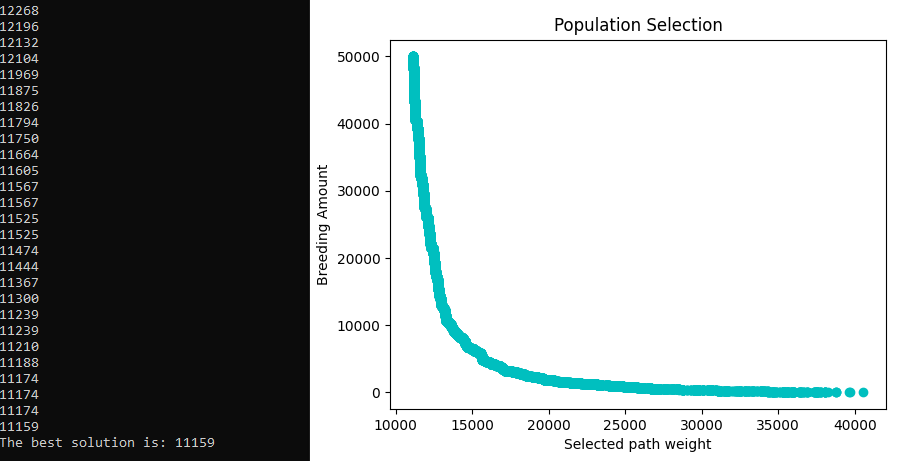
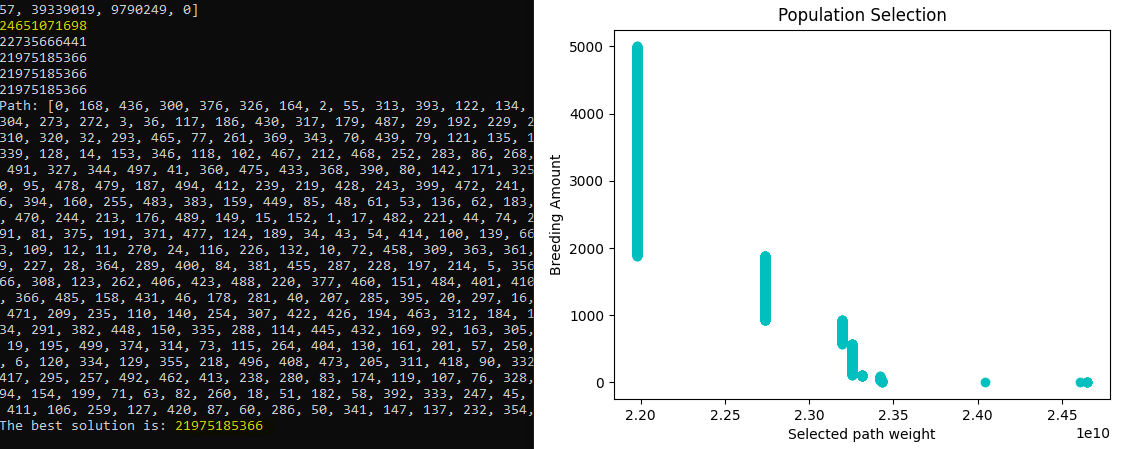
examples are included again

Changed region(s): [[0.0, 0.0, 0.9739, 1.0], [0.6696, 0.5612, 0.7, 0.7171]]

diff --git a/src/Traveling Salesman Problem/TravelingSalesmanProblem.py b/src/Traveling Salesman Problem/TravelingSalesmanProblem.py
@@ -52,7 +52,7 @@ class Selection(TSPGeneticAlgorithm):
 
     def breedingLoop(self, chromosome1, chromosome2):
         iteration = 0
-        while iteration < 20000:
+        while iteration < 5000:
             temp1 = chromosome1.copy()
             temp2 = chromosome2.copy()
 
@@ -72,7 +72,7 @@ class Selection(TSPGeneticAlgorithm):
 
     def crossover(self, chromosome1, chromosome2):
         chromosomeLenght = len(chromosome1)
-        for i in range(math.floor(chromosomeLenght / 2)):
+        for i in range(math.floor(chromosomeLenght / 3)):
             randomIndex = random.randint(1, chromosomeLenght - 1)
             swapGenes(chromosome1, chromosome2, randomIndex)
 
@@ -102,7 +102,6 @@ class Selection(TSPGeneticAlgorithm):
             self.bestChromosome = chromosome2
             self.bestScore = val2
 
-        # print(self.bestChromosome)
         print(f'{self.bestScore}')
 
 
@@ -123,13 +122,13 @@ class Mutation:
     def mutationCycle(self, chromosome):
         tempChromosome = chromosome.copy()
         chromosomeLenght = len(tempChromosome)
+        for i in range(math.floor(chromosomeLenght / 100)):
+            randomIndex1 = random.randint(1, chromosomeLenght - 2)
+            randomIndex2 = random.randint(1, chromosomeLenght - 2)
 
-        randomIndex1 = random.randint(1, chromosomeLenght - 2)
-        randomIndex2 = random.randint(1, chromosomeLenght - 2)
-
-        tempGene = tempChromosome[randomIndex1]
-        tempChromosome[randomIndex1] = tempChromosome[randomIndex2]
-        tempChromosome[randomIndex2] = tempGene
+            tempGene = tempChromosome[randomIndex1]
+            tempChromosome[randomIndex1] = tempChromosome[randomIndex2]
+            tempChromosome[randomIndex2] = tempGene
 
         return tempChromosome
 

diff --git a/src/Traveling Salesman Problem/TSPSampleGenerator.py b/src/Traveling Salesman Problem/TSPSampleGenerator.py
@@ -16,7 +16,7 @@ class TSPSampleContainer:
             self.TSPGraph.append([0] * self.graphSize)
             for j in range(self.graphSize):
                 if i != j:
-                    self.TSPGraph[i][j] = (random.randint(100, 100000))
+                    self.TSPGraph[i][j] = (random.randint(10, 100000000))
         print("Graph is generated..")
         for i in range(self.graphSize):
             print(self.TSPGraph[i])

diff --git a/src/Traveling Salesman Problem/tests.py b/src/Traveling Salesman Problem/tests.py
@@ -1,11 +1,7 @@
 from TravelingSalesmanProblem import *
-from TSPN import *
 
 # TSP Analysis
-testSample = TSPSampleContainer(5, 10)
-
-print(travellingSalesmanProblem(testSample))
-print("*******************")
+testSample = TSPSampleContainer(5, 500)
 
 graph1 = TSPGeneticAlgorithm(testSample)
 graph1.process()

diff --git a/README.md b/README.md
@@ -7,10 +7,10 @@ In this project, I tried to apply selective breeding principle to my program. Th
 - Selection rules, mutation rates and breeding cycles can be changed.  
 - Moreover, you can observe the analysis of these solutions in test scripts. 
 
-### TSP with 500 cities and 50000 breeding cycles
+### TSP with 500 cities and 5000 breeding cycles
 
 ![Enc1](https://raw.githubusercontent.com/berkkirtay/geneticalgorithms/main/examples/TSP.PNG)
 
-### Knapsack with 100 items and 20000 breeding cycles
+### Knapsack problem with 500 items and 10000 breeding cycles
 
 ![Enc1](https://raw.githubusercontent.com/berkkirtay/geneticalgorithms/main/examples/Knapsack.PNG)
